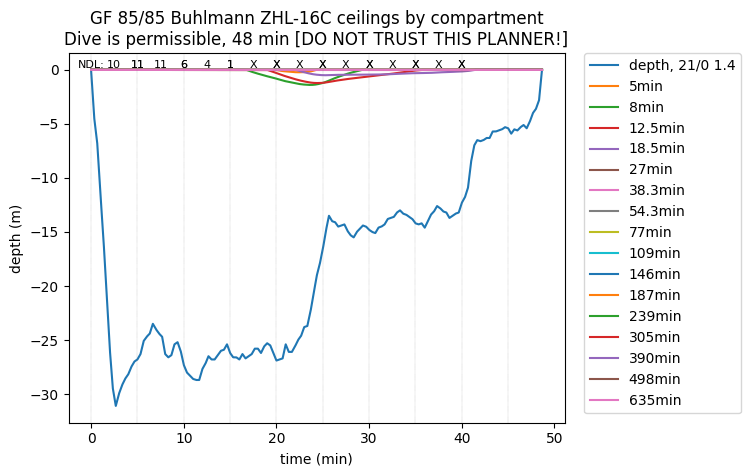
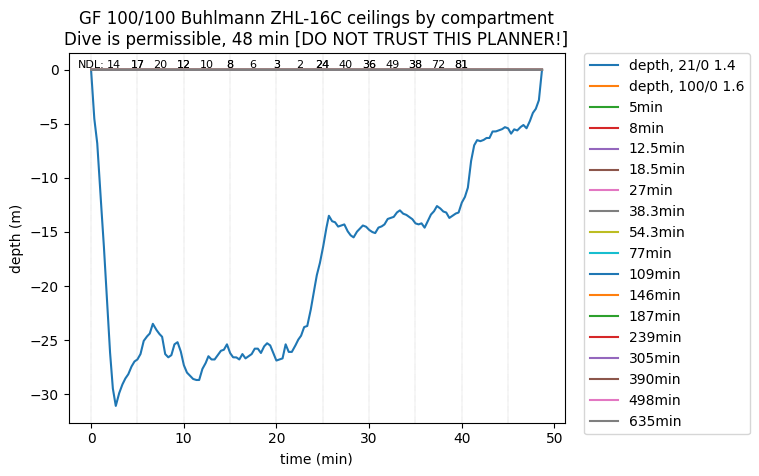
small updates not committed from before

diff --git a/planner.py b/planner.py
@@ -4,14 +4,22 @@ air = Gas()
 air_tec = Gas(ppo2=1.2)
 eanx32 = Gas(oxygen=32)
 eanx32_tec = Gas(oxygen=32, ppo2=1.2)
+eanx36 = Gas(oxygen=36)
+eanx36_tec = Gas(oxygen=36, ppo2=1.2)
 deco_eanx50 = Gas(oxygen=50, ppo2=1.6)
 deco_oxygen = Gas(oxygen=100, ppo2=1.6)
+deco_trimix_35_25 = Gas(oxygen=35, helium=25, ppo2=1.6)
+deco_trimix_21_35 = Gas(oxygen=21, helium=35, ppo2=1.6)
 trimix_21_35 = Gas(oxygen=21, helium=35, ppo2=1.2)
 trimix_18_45 = Gas(oxygen=18, helium=45, ppo2=1.2)
 trimix_15_55 = Gas(oxygen=15, helium=55, ppo2=1.2)
 trimix_12_65 = Gas(oxygen=12, helium=65, ppo2=1.2)
-all_gases=[air_tec, eanx32, deco_eanx50, deco_oxygen, trimix_12_65, trimix_15_55, trimix_18_45]
+trimix_10_70 = Gas(oxygen=10, helium=70, ppo2=1.2)
+
 rec_gases = [air, eanx32]
+tec_bottom_gases=[air_tec, eanx32_tec, eanx36_tec, trimix_21_35, trimix_18_45, trimix_15_55, trimix_12_65, trimix_10_70]
+deco_gases = [deco_eanx50, deco_oxygen, deco_trimix_35_25, deco_trimix_21_35]
+all_gases = tec_bottom_gases + deco_gases + rec_gases
 
 class ChangeDepth():
     def __init__(self, depth, available_gases=None, time_min=None, time_s=None, speed_mm=9) -> None:
@@ -51,7 +59,7 @@ class ChangeDepth():
             time = prev_time + abs(prev_depth - self.depth)/self.speed_ms
             if int(time) != time:
                 time = int(time) + 1
-        if self.depth > prev_checkpoint.gas.mod:
+        if self.depth > prev_checkpoint.gas.mod and self.available_gases:
             final_gas = self.get_best_gas(self.available_gases, self.depth)  # TODO: allow time for gas switching
             # TODO: this only ever switches halfway through
             intermediate_time = int((prev_time + time)/2)
@@ -142,7 +150,12 @@ class GetMeHome():
 
     def get_new_checkpoints(self, dive_checkpoints):
         dive = DiveProfile(checkpoints=dive_checkpoints)
+        count = 0
         while dive_checkpoints[-1].depth > 0 and dive_checkpoints[-1].time < 60*60*10:
+            if count % 100 == 0:
+                valid = self.algorithm.process(dive)
+                if not valid:
+                    raise Exception("Dive invalid at minute {}".format(dive_checkpoints[-1].time / 60))
             prev_time = dive_checkpoints[-1].time
             prev_depth = dive_checkpoints[-1].depth
             prev_gas = dive_checkpoints[-1].gas
@@ -165,6 +178,7 @@ class GetMeHome():
                 dive_checkpoints.append(new_dive_checkpoint)
                 dive.delete_after(prev_time)
                 dive.add_checkpoint(new_dive_checkpoint)
+            count = count + 1
         return []  # TODO: make this make sense. right now, it directly modifies the object it takes in
 
 
@@ -179,29 +193,29 @@ def process_diveplan(dive_plan, initial_gas):
             dive_checkpoints.append(new_checkpoints)
     return dive_checkpoints
 
-buhlmann = Buhlmann_Z16C(gf=85)
+buhlmann = Buhlmann_Z16C(gf=100)
 
 # dive_plan = [
 #     SwitchGas(gas=air),
-#     ChangeDepth(depth=27, speed_mm=18, available_gases=[air]),
-#     MaintainDepth(time_min=3),
-#     ChangeDepth(depth=25, speed_mm=4, available_gases=[air]),
-#     MaintainDepth(time_min=4),
-#     ChangeDepth(depth=22, time_min=2, available_gases=[air]),
+#     ChangeDepth(depth=45, speed_mm=18, available_gases=[air]),
+#     MaintainDepth(time_min=16),
+#     # ChangeDepth(depth=25, speed_mm=4, available_gases=[air]),
+#     # MaintainDepth(time_min=4),
+#     # ChangeDepth(depth=22, time_min=2, available_gases=[air]),
 #     # SwitchGas(gas=trimix_12_65),
 #     # ChangeDepth(depth=65, speed_mm=18, available_gases=available_gases),
 #     # ChangeDepth(depth=55, available_gases=[air], speed_mm=18),
 #     # SwitchGas(gas=trimix_12_65),
-#     MaintainDepth(time_min=28),
+#     # MaintainDepth(time_min=28),
 #     # ChangeDepth(depth=18, time_min=3, available_gases=[air]),
 #     # MaintainDepth(time_min=29),
-#     # GetMeHome(algorithm=buhlmann, available_gases=[air])
-#     SafetyStop(),
-#     AscendDirectly()
+#     GetMeHome(algorithm=buhlmann, available_gases=[air])
+#     # SafetyStop(),
+#     # AscendDirectly()
 # ]
 
 def make_dive_actions_from_list(l, s=20):
-    return [*[ChangeDepth(depth=d, time_s=s) for d in l], AscendDirectly()]
+    return [*[ChangeDepth(depth=d, time_s=s, available_gases=tec_bottom_gases) for d in l], GetMeHome(algorithm=buhlmann, available_gases=tec_bottom_gases + deco_gases)]
 
 simons_reef = [
     5.2,9.2,12.6,14.9,15.5,16.6,16.6,16.9,18.4,19.3,20,22.3,24.9,26.4,26.3,27,27.6,29,
